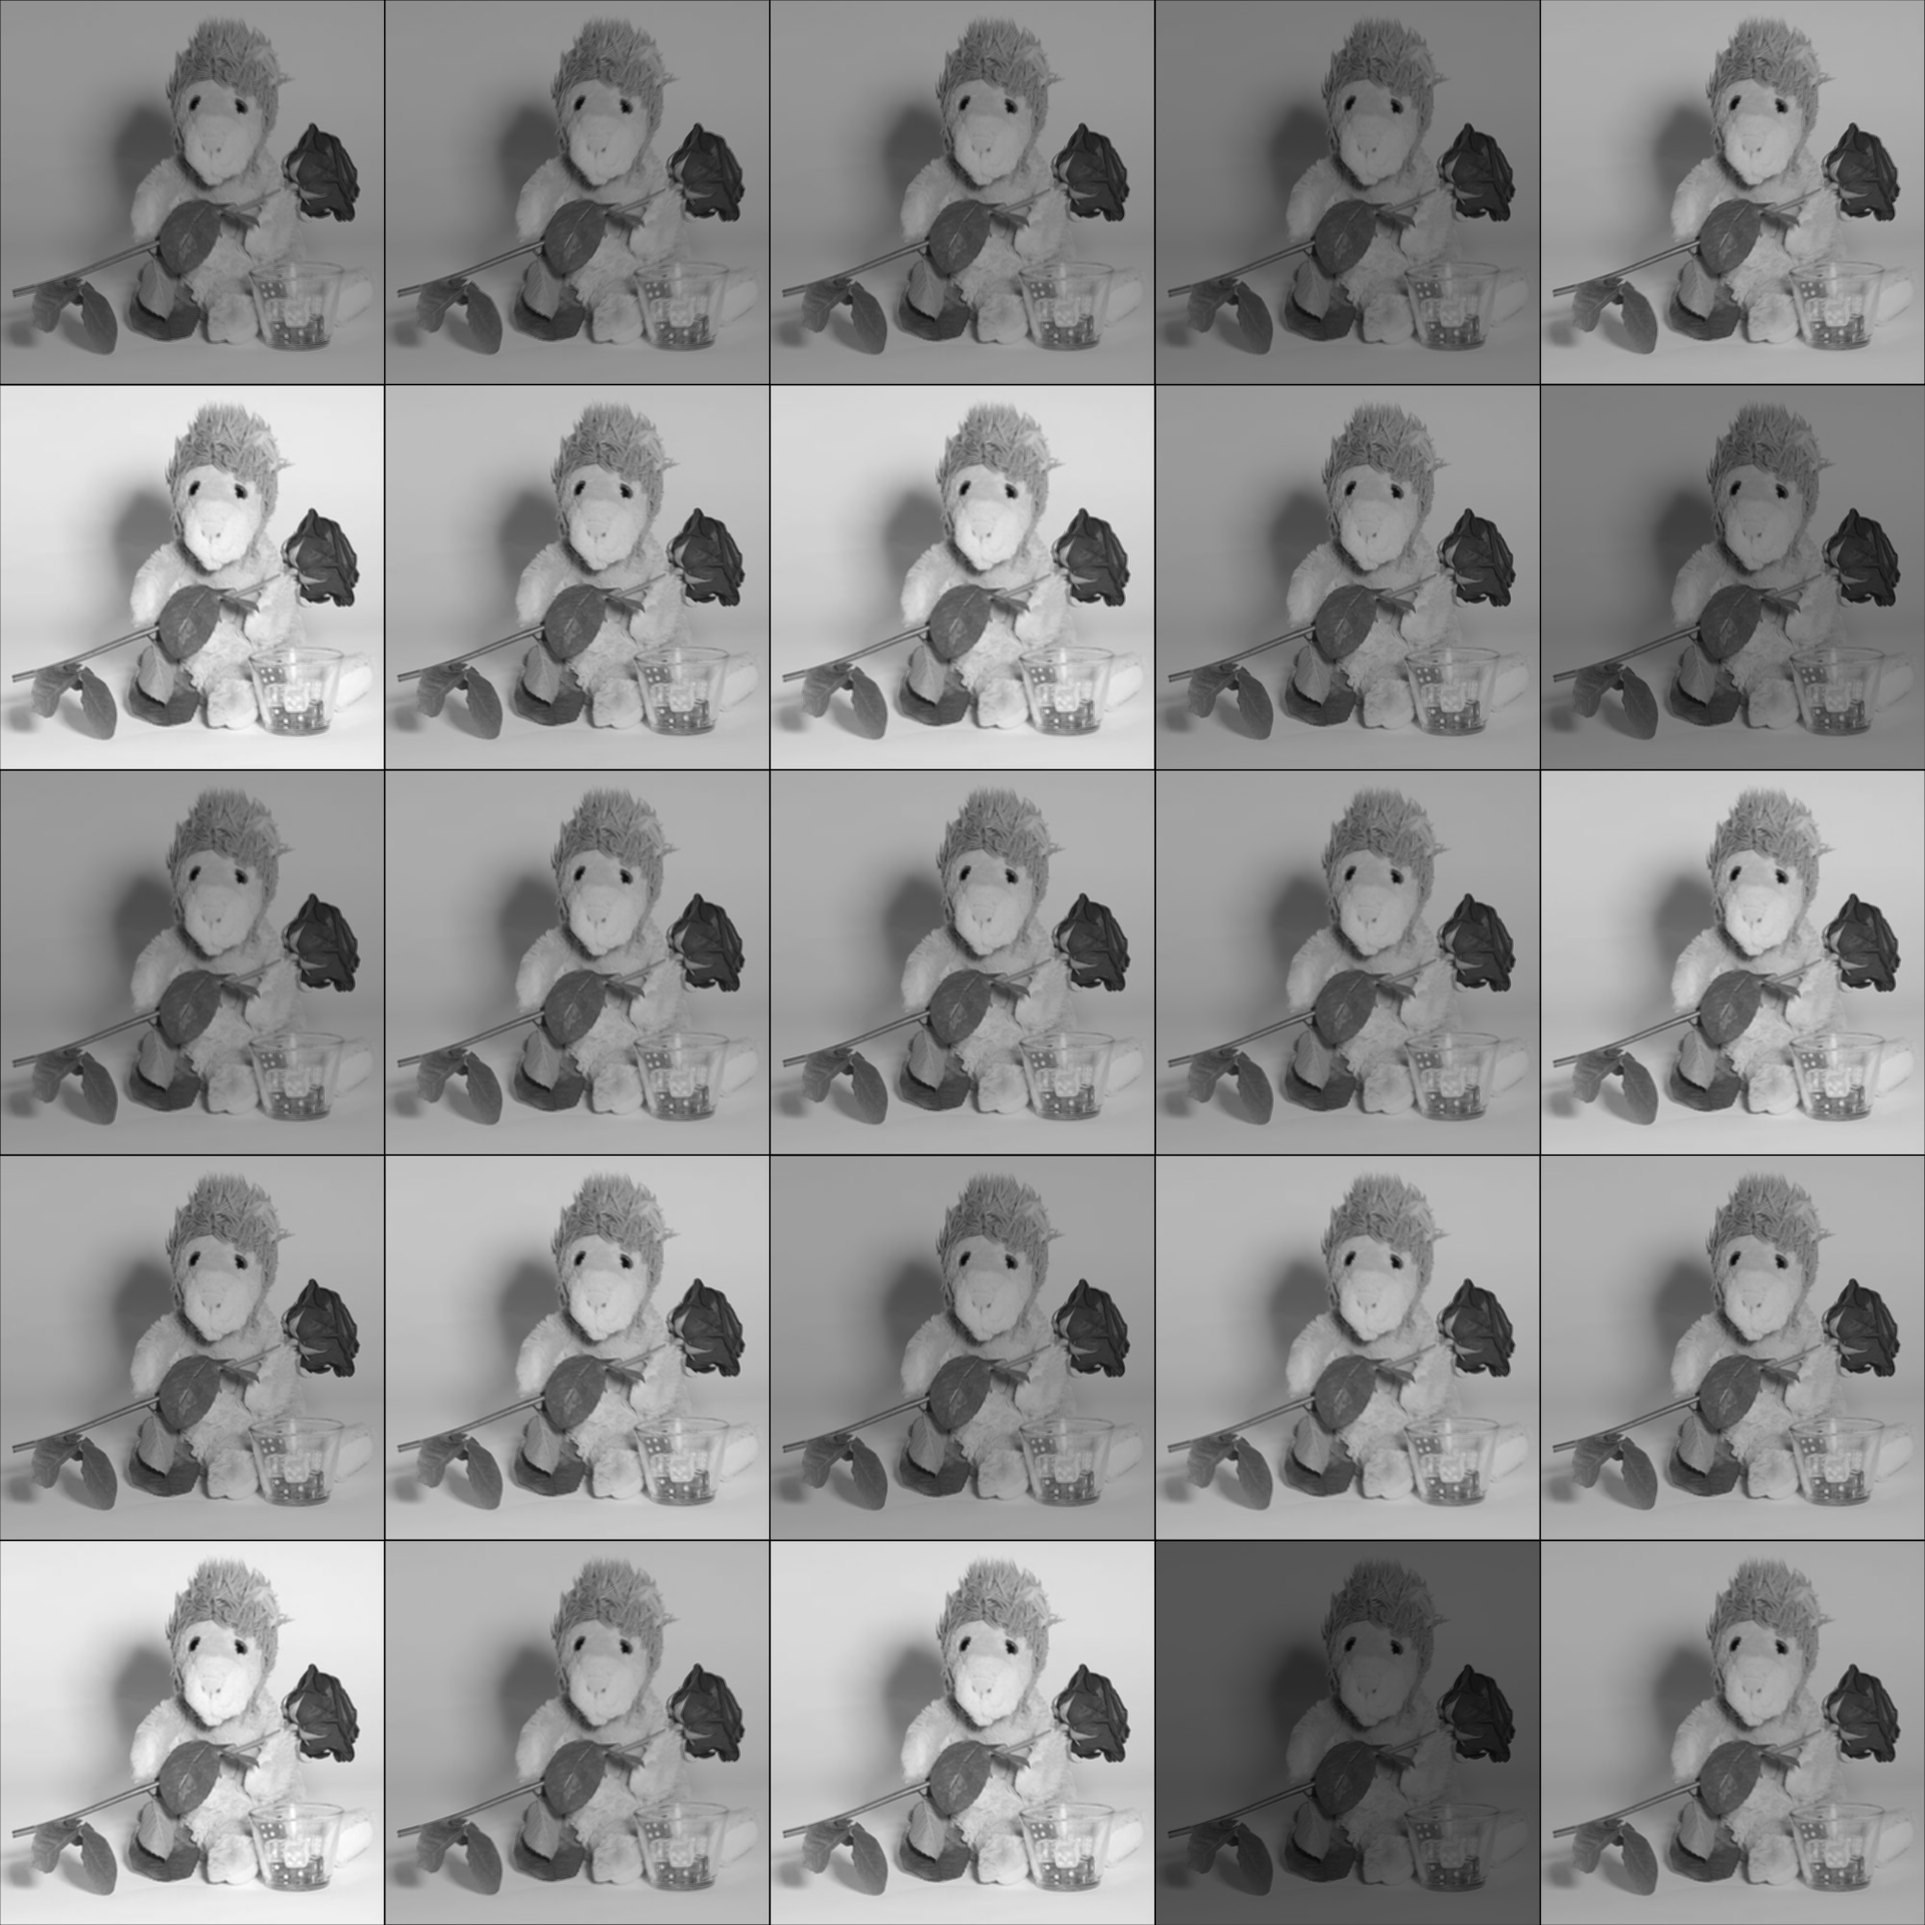
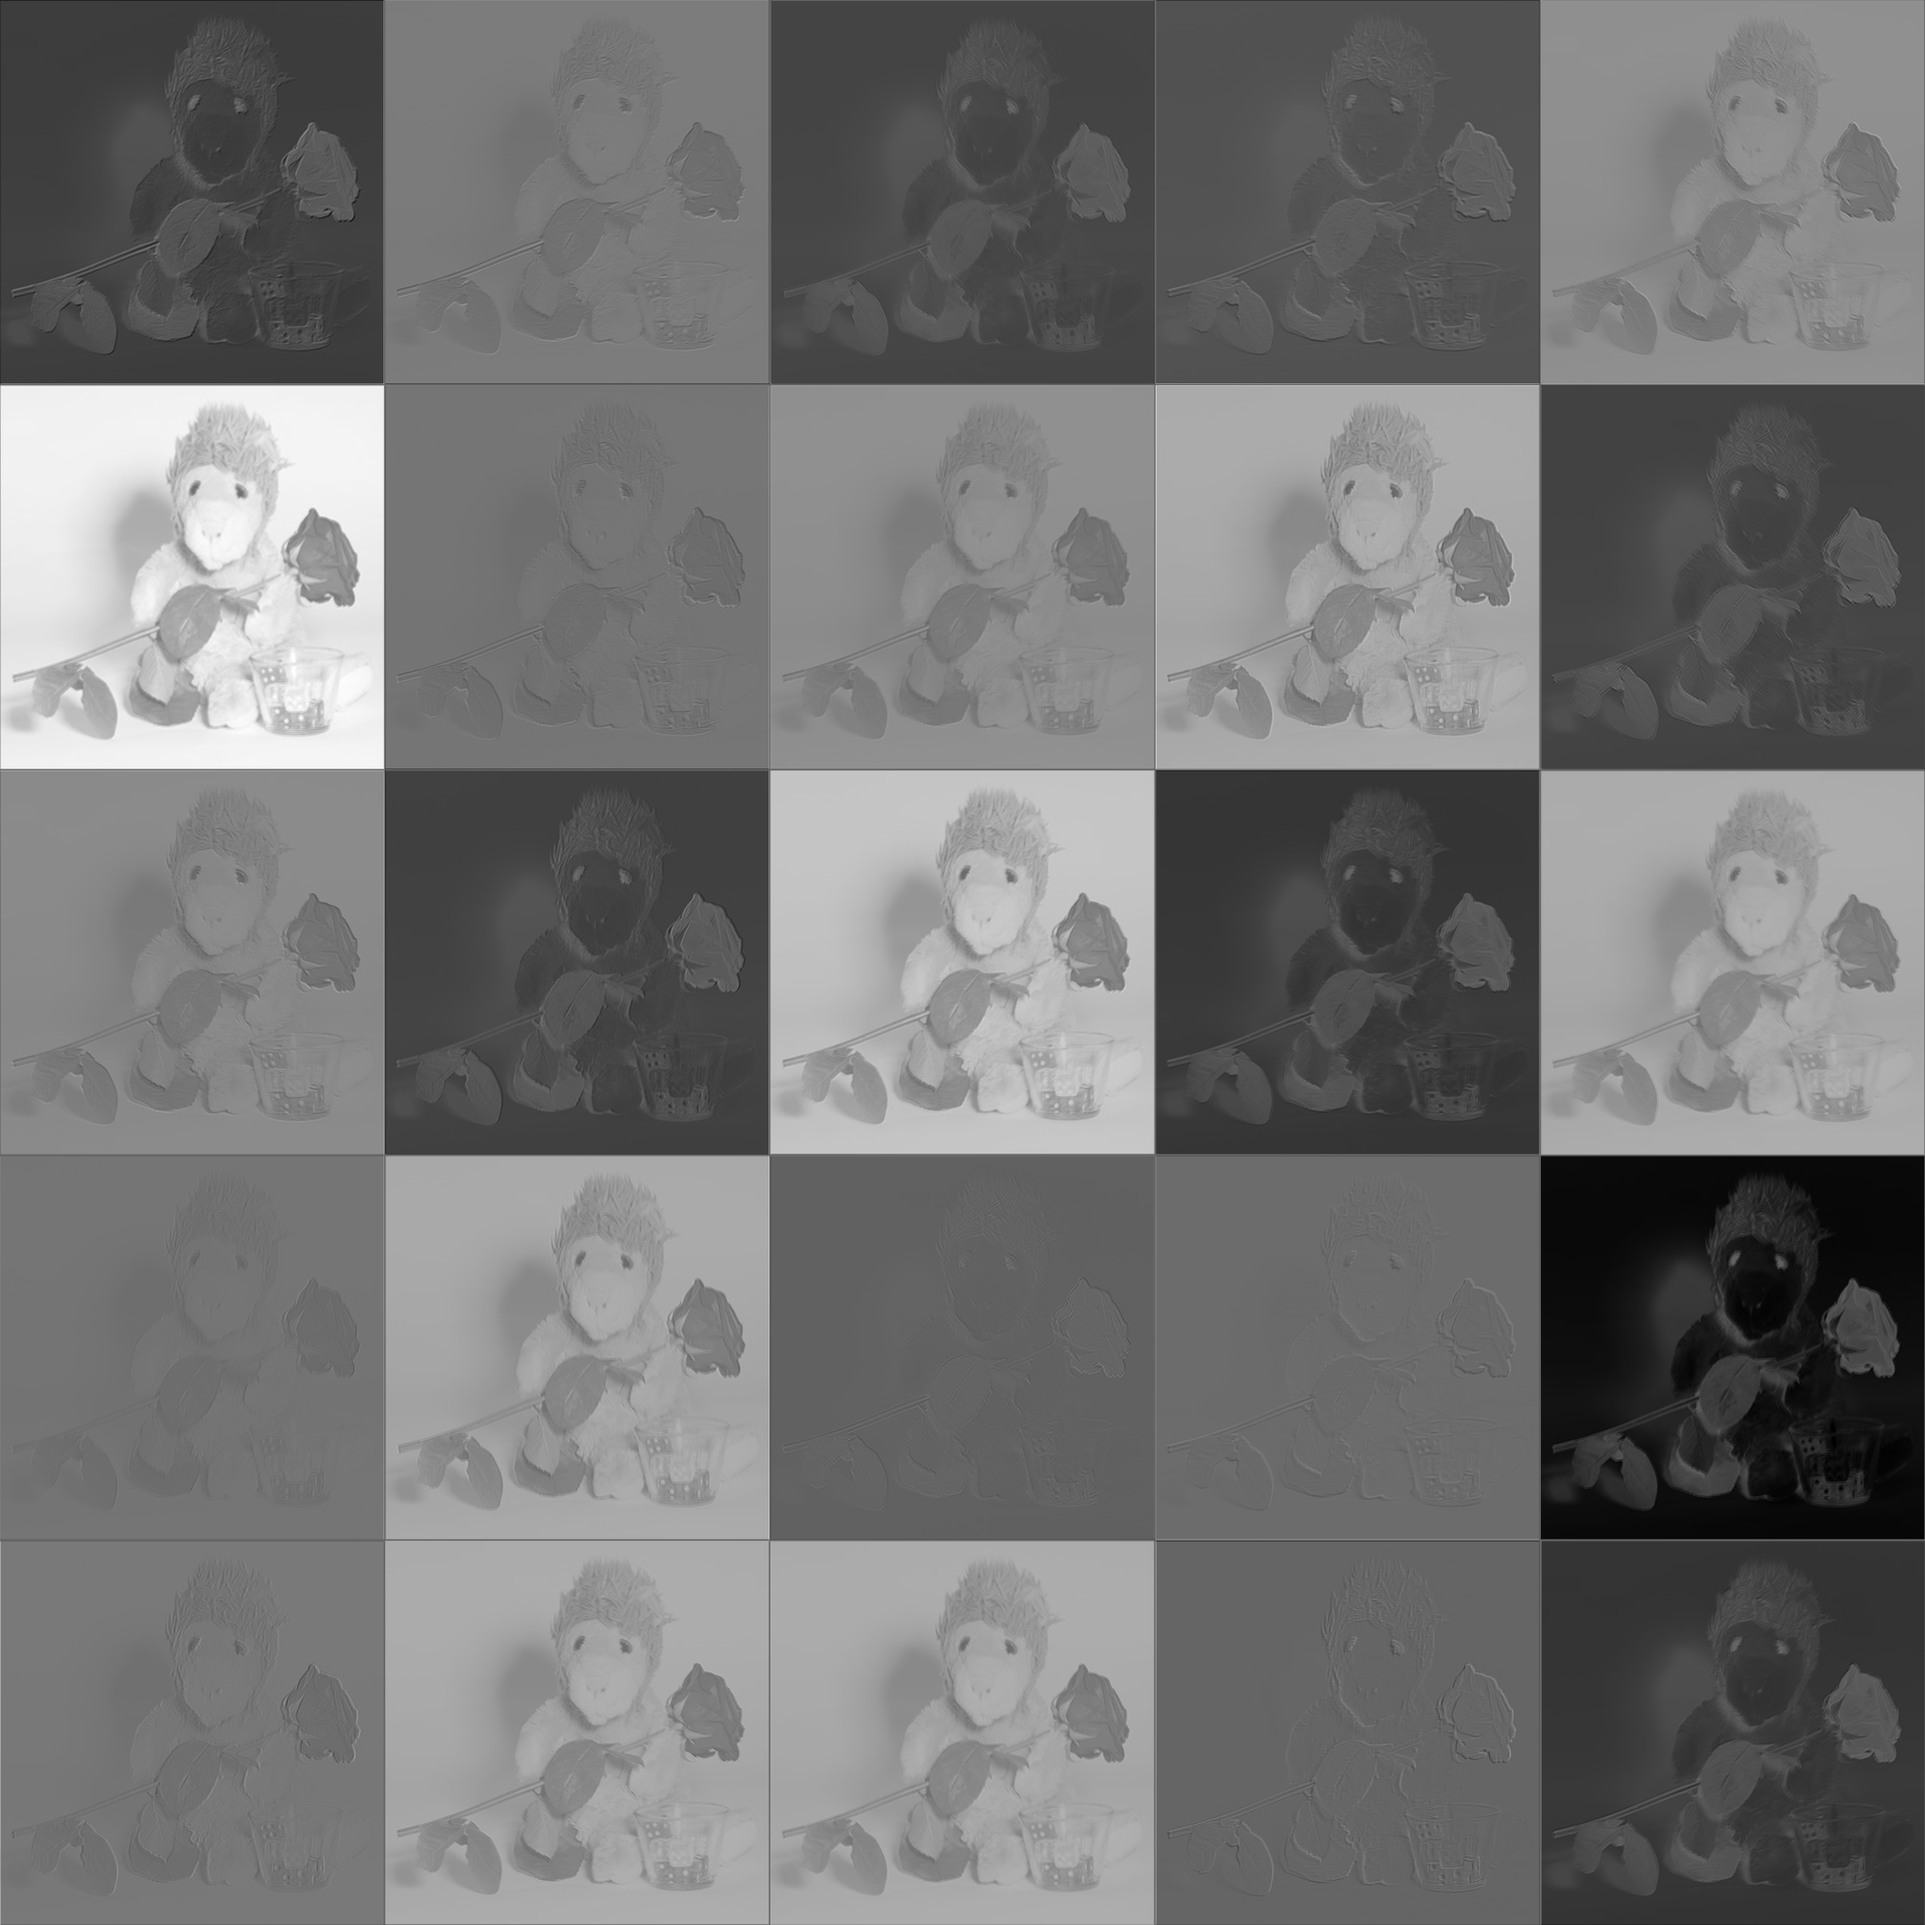
filter eval: Fix

diff --git a/ML/filter-kernels/filter_eval.py b/ML/filter-kernels/filter_eval.py
@@ -37,7 +37,13 @@ imgs = []
 nrows = 5
 ncols = 5
 for i in range(nrows * ncols):
-    weights = numpy.random.random((3, 3))  # Filter size
+    x = 9 * 9 * 3
+    min_val = - 1. / x
+    max_val = + 1. / x
+    range_val = max_val - min_val
+
+    filter_size = (3, 3)
+    weights = (numpy.random.random(filter_size) * range_val) + min_val
     print(weights)
     im_res = convolve2d(im, weights, mode='same')
     imgs.append(im_res)
@@ -45,3 +51,8 @@ imgs = numpy.array(imgs)
 mosaic = make_mosaic(imgs, nrows=nrows, ncols=ncols, border=1)
 print(mosaic.shape)
 imshow(mosaic)
+
+# Edge filter
+weights = [[1, 1, 1], [0, 0, 0], [-1, -1, -1]]
+im_res = convolve2d(im, weights, mode='same')
+imshow(im_res)
